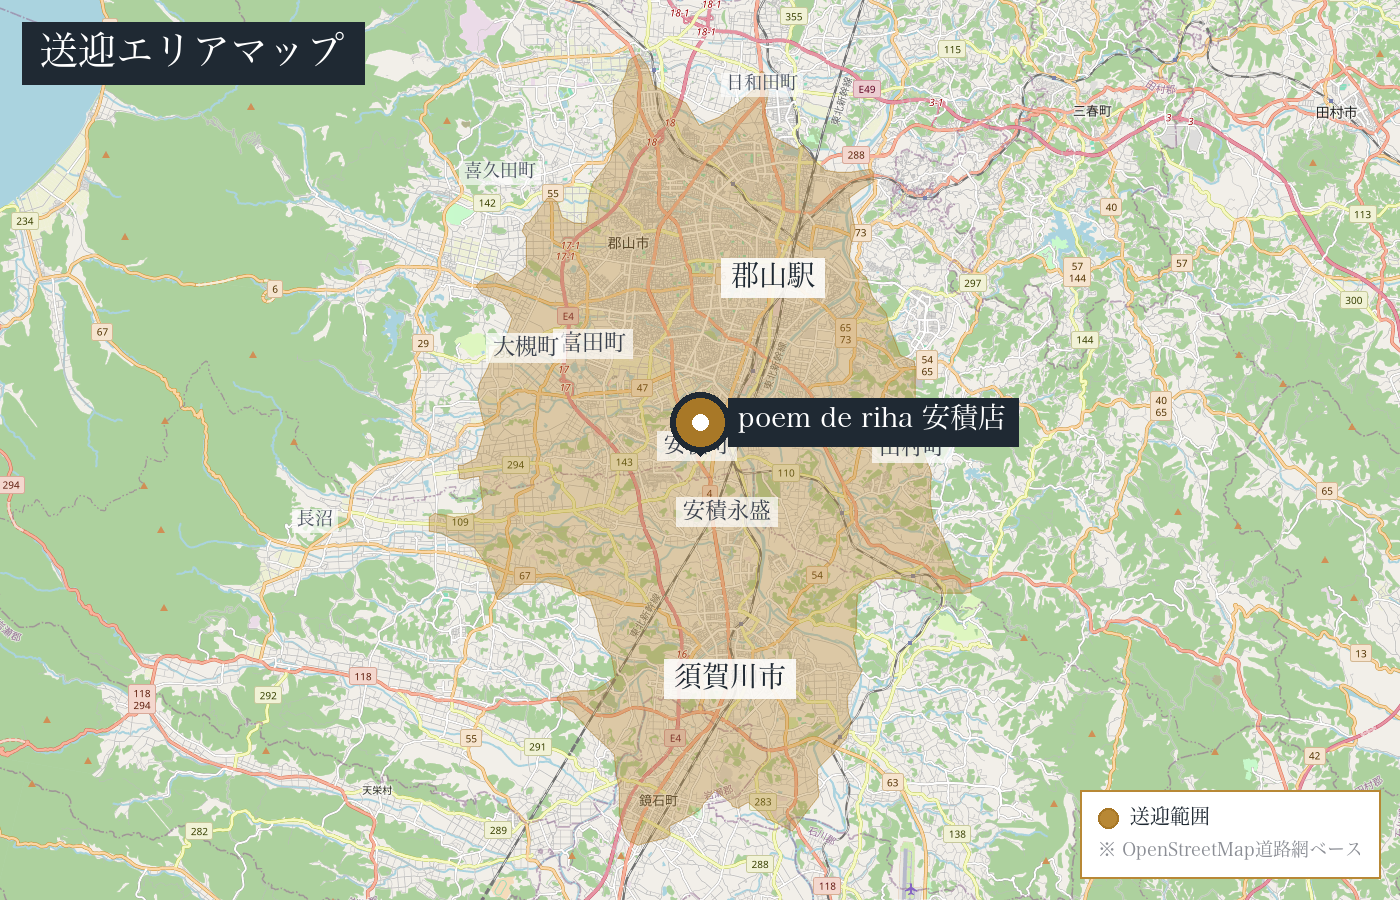
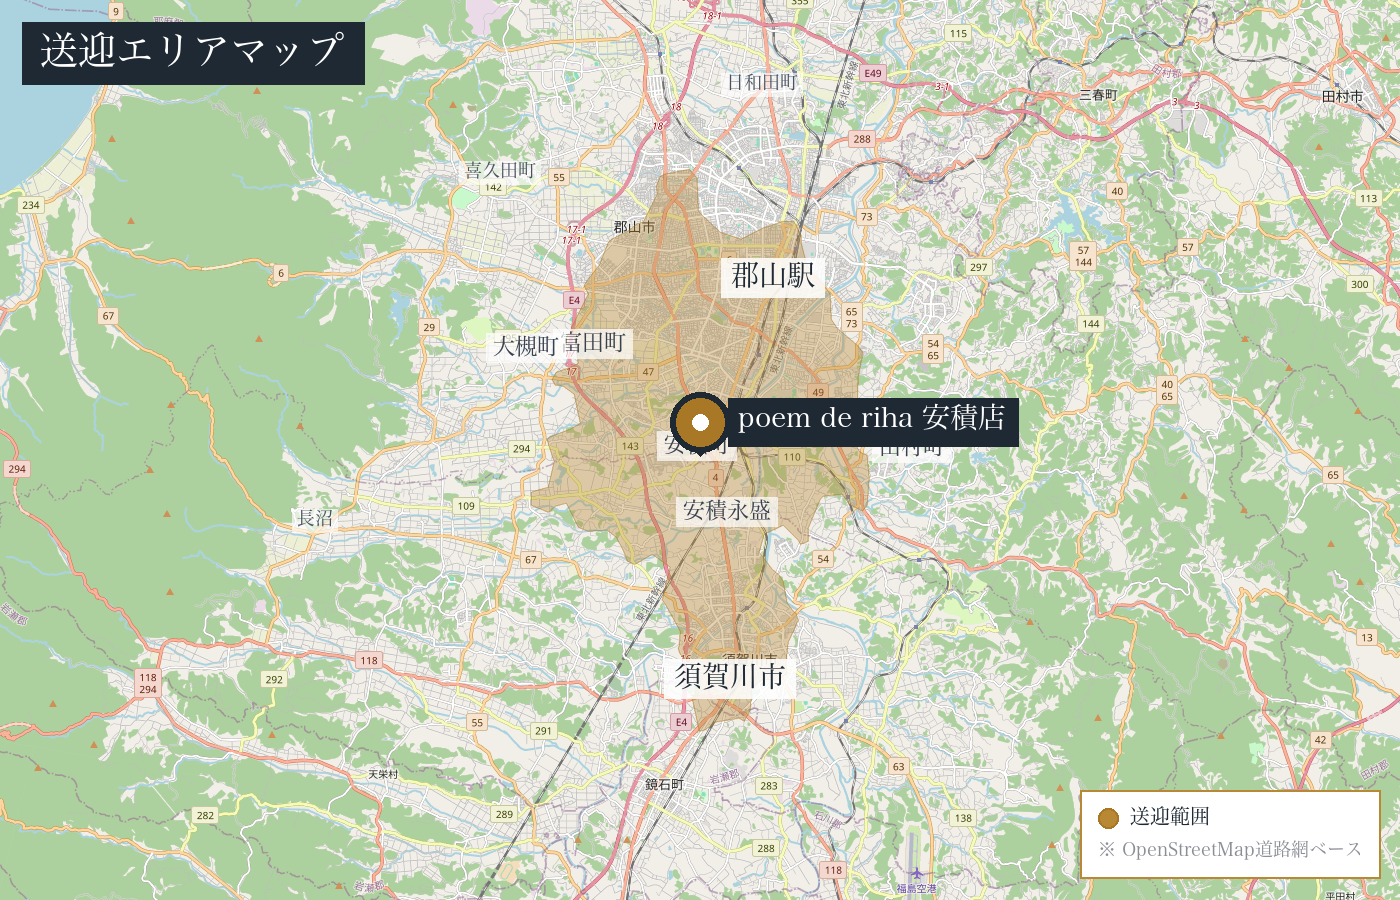
isochrone: poem de riha 安積店の送迎範囲を10分→7分に縮小
- generate-isochrone-map.py に range_sec フィールドを追加（事業所ごとに到達時間を変えられるように）
- コマンドライン引数で slug を指定すると、その事業所だけ再生成可能
- 安積店のみ 420秒（片道7分）で再生成

diff --git a/tools/generate-isochrone-map.py b/tools/generate-isochrone-map.py
@@ -31,6 +31,7 @@ FACILITIES = [
         'name': 'poem de riha 安積店',
         'slug': 'asaka',
         'lat': 37.349490, 'lng': 140.362112,
+        'range_sec': 420,  # 片道7分
         'labels': [
             ('郡山駅', 37.3963, 140.3873, 'big'),
             ('須賀川市', 37.2868, 140.3727, 'big'),
@@ -94,12 +95,12 @@ FACILITIES = [
 ]
 
 
-def fetch_isochrones(lat, lng):
-    """OpenRouteService から isochrone (片道10分) を取得"""
+def fetch_isochrones(lat, lng, range_sec=600):
+    """OpenRouteService から isochrone を取得（デフォルト片道10分）"""
     url = "https://api.openrouteservice.org/v2/isochrones/driving-car"
     body = json.dumps({
         "locations": [[lng, lat]],
-        "range": [600],
+        "range": [range_sec],
         "range_type": "time",
     }).encode('utf-8')
     req = urllib.request.Request(url, data=body, headers={
@@ -143,8 +144,9 @@ def latlng_to_xy(lat, lng, c_lat, c_lng, w, h, zoom):
 
 def render_facility(fac, output_dir, zoom=12, w=1400, h=900):
     """1事業所のマップを生成"""
-    print(f"--- {fac['name']} ---")
-    geo = fetch_isochrones(fac['lat'], fac['lng'])
+    range_sec = fac.get('range_sec', 600)
+    print(f"--- {fac['name']} （片道 {range_sec // 60}分）---")
+    geo = fetch_isochrones(fac['lat'], fac['lng'], range_sec)
     features = sorted(geo['features'], key=lambda f: -f['properties']['value'])
 
     m = StaticMap(w, h, url_template='https://a.tile.openstreetmap.org/{z}/{x}/{y}.png',
@@ -236,7 +238,11 @@ def render_facility(fac, output_dir, zoom=12, w=1400, h=900):
 def main():
     output_dir = '/Users/hanawahiroyuki/hanahiro-training/photos'
     os.makedirs(output_dir, exist_ok=True)
+    # コマンドライン引数で slug を指定すると、その事業所だけ生成
+    only = sys.argv[1] if len(sys.argv) > 1 else None
     for fac in FACILITIES:
+        if only and fac['slug'] != only:
+            continue
         try:
             render_facility(fac, output_dir)
         except Exception as e:
